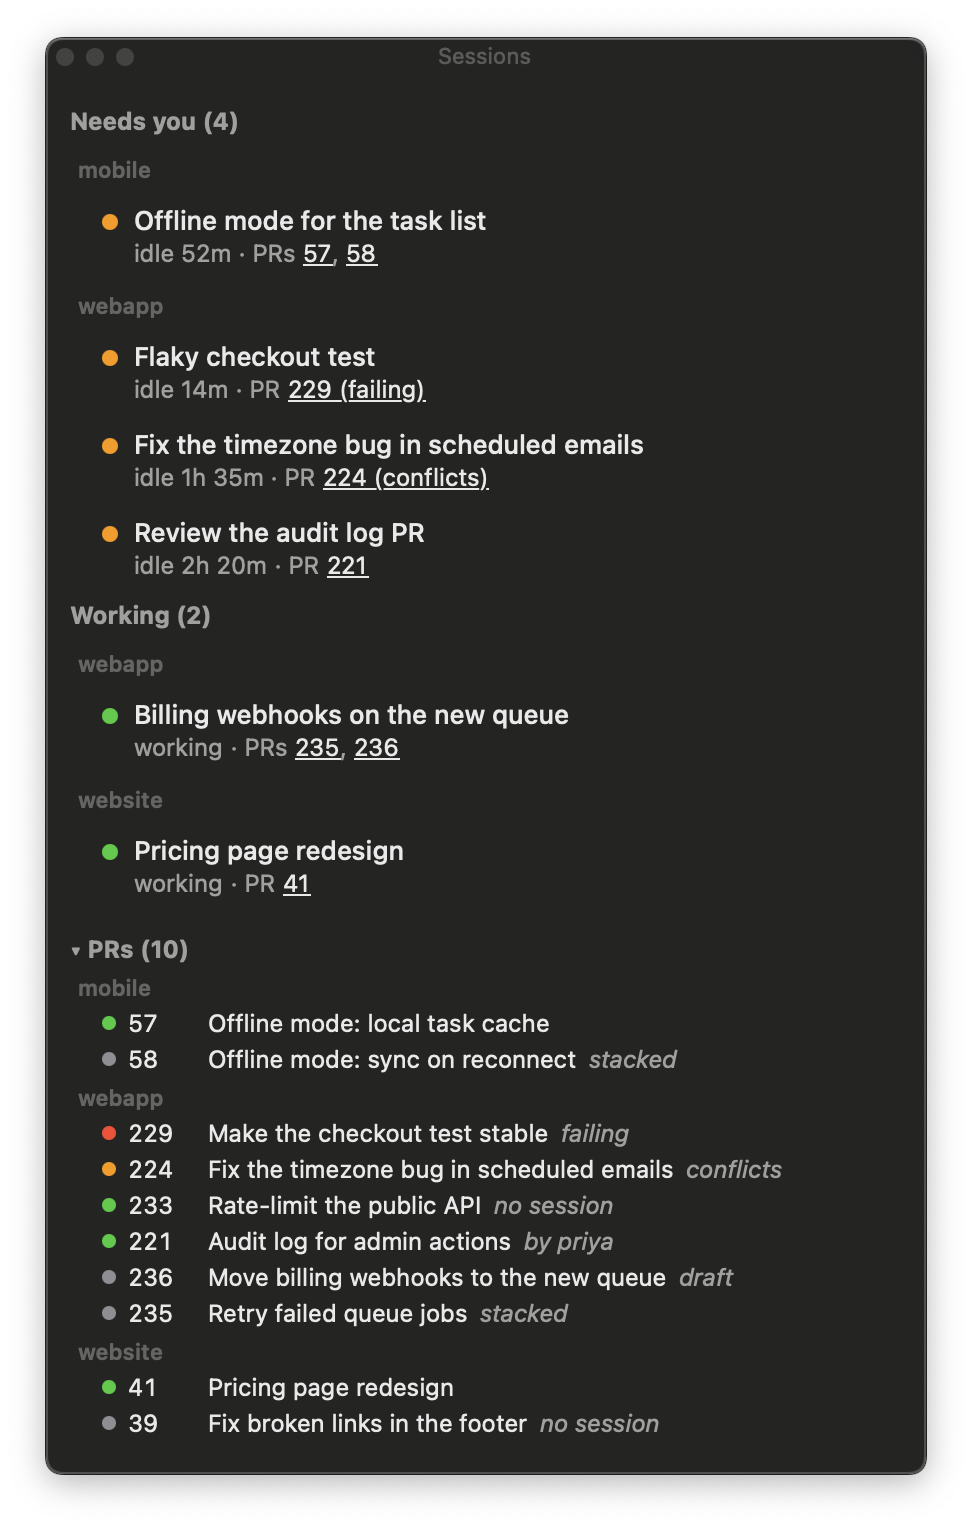
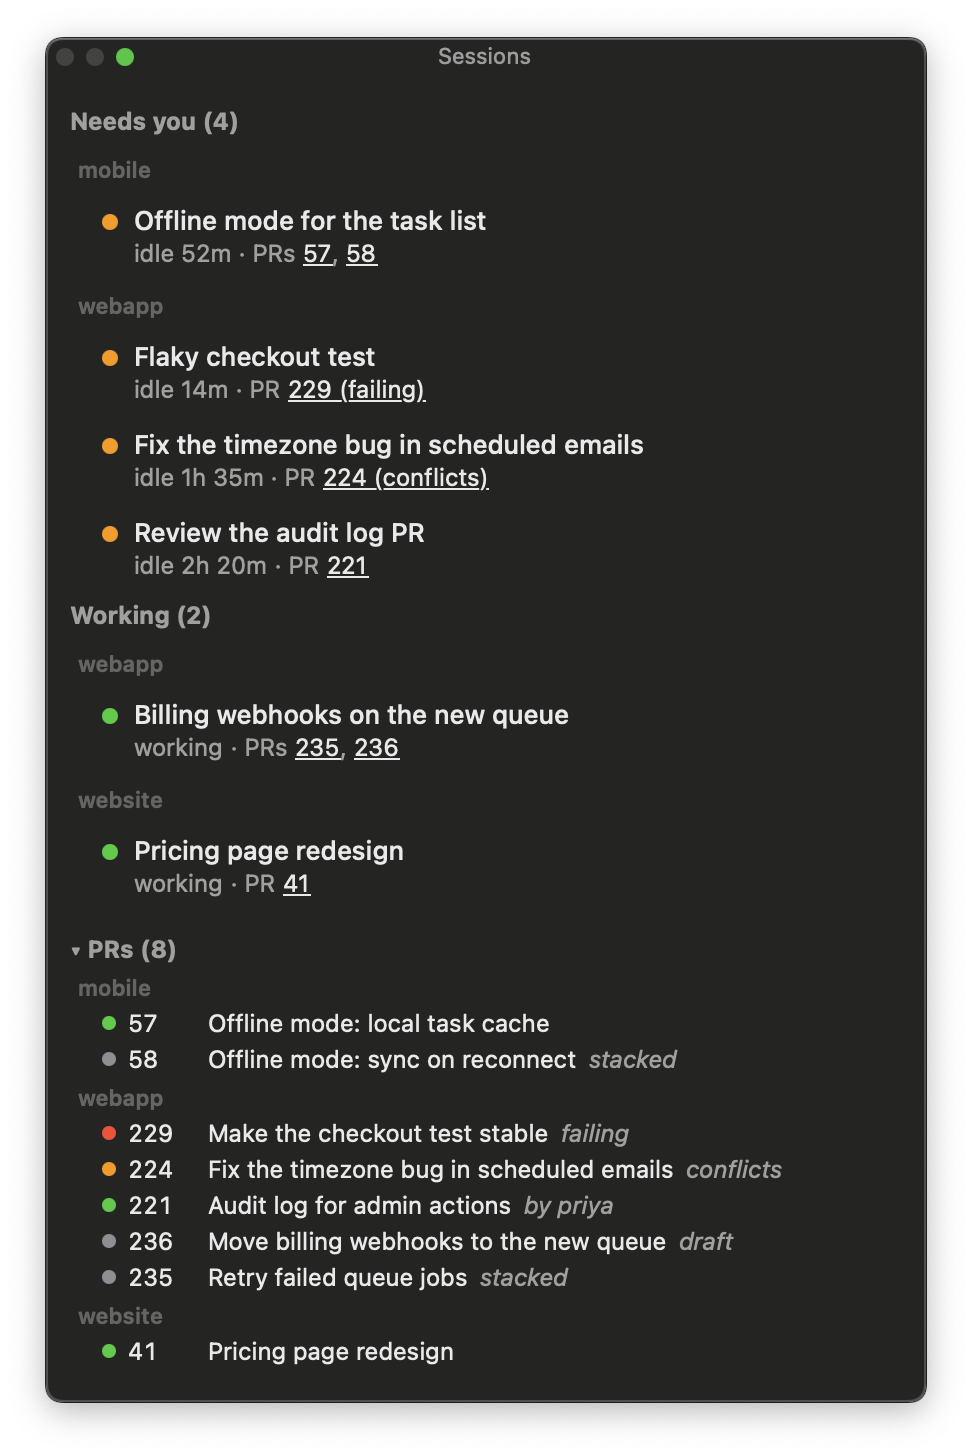
List only PRs from sessions fresher than a week, the same rule as the session list
A PR no session works on, or whose sessions have been idle for over a week,
is no longer listed, and only repos of such sessions are asked about. The
"no session" note is gone, and the PR screenshot is redone.

Changed region(s): [[0.0617, 0.0, 0.9568, 0.989]]

diff --git a/blackroija.swift b/blackroija.swift
@@ -1004,12 +1004,13 @@ struct Row: View {
     }
 }
 
-/// The repos to list PRs for: the GitHub repo of every session's folder, plus
-/// every repo a session has an open PR on. Each repo once, whatever its
+/// The repos to list PRs for: the GitHub repo of every fresh session, plus
+/// every repo such a session has an open PR on. Each repo once, whatever its
 /// capitalization.
-func prRepoList(_ sessions: [Session]) -> Set<String> {
+func prRepoList(_ sessions: [Session], now: Date = Date()) -> Set<String> {
+    let fresh = sessions.filter { isFresh($0, now: now) }
     var byKey: [String: String] = [:]
-    for repo in sessions.compactMap(\.repo) + sessions.flatMap({ $0.prs.filter(\.isOpen).map(\.repo) }) {
+    for repo in fresh.compactMap(\.repo) + fresh.flatMap({ $0.prs.filter(\.isOpen).map(\.repo) }) {
         if byKey[repo.lowercased()] == nil { byKey[repo.lowercased()] = repo }
     }
     return Set(byKey.values)
@@ -1165,27 +1166,30 @@ struct MergeQueue {
     var ready: [OpenPR] = []
     var failing: [OpenPR] = []
     var conflicts: [OpenPR] = []
-    var noSession: [OpenPR] = []
-    // The PRs shown: yours, plus teammates' ones an open session works on.
+    // The PRs shown: the open ones that a session from the last week works on.
     var shown: [OpenPR] = []
 
-    init(_ open: [OpenPR], sessions: [Session]) {
-        let tracked = Set(sessions.flatMap { $0.prs.map { "\($0.repo.lowercased())#\($0.number)" } })
-        shown = open.filter { $0.mine || !$0.keys.isDisjoint(with: tracked) }.sorted { $0.number > $1.number }
+    init(_ open: [OpenPR], sessions: [Session], now: Date = Date()) {
+        let tracked = Set(sessions.filter { isFresh($0, now: now) }
+            .flatMap { $0.prs.map { "\($0.repo.lowercased())#\($0.number)" } })
+        shown = open.filter { !$0.keys.isDisjoint(with: tracked) }.sorted { $0.number > $1.number }
         ready = shown.filter(\.isReady)
         failing = shown.filter { !$0.isDraft && $0.isFailing }
         conflicts = shown.filter(\.hasConflicts)
-        noSession = shown.filter { $0.keys.isDisjoint(with: tracked) }
     }
 
     var isEmpty: Bool { shown.isEmpty }
 }
 
+/// A session still worth showing: working, or active within the last week.
+/// The session list and the PR list both follow this rule.
+func isFresh(_ session: Session, now: Date) -> Bool {
+    session.activity == .working || now.timeIntervalSince(session.lastActivity) < staleAfter
+}
+
 /// Splits sessions the way the window shows them.
 func arrange(_ sessions: [Session], now: Date, problems: [String: String] = [:]) -> (stuck: [(session: Session, reason: String)], answer: [Session], needsYou: [Session], working: [Session], quiet: [Session], stale: Int) {
-    let all = sessions.filter {
-        $0.activity == .working || now.timeIntervalSince($0.lastActivity) < staleAfter
-    }
+    let all = sessions.filter { isFresh($0, now: now) }
     // Stuck sessions get their own section on top; the rest split as before.
     // Every list is newest first: the session that replied most recently
     // comes first.
@@ -1240,7 +1244,7 @@ struct ContentView: View {
                         .font(.system(size: 12)).foregroundStyle(.tertiary)
                 }
                 if let open = store.openPRs {
-                    mergeStrip(MergeQueue(open, sessions: store.sessions))
+                    mergeStrip(MergeQueue(open, sessions: store.sessions, now: now))
                         .padding(.top, 8)
                 }
                 if let prError = store.prError {
@@ -1263,7 +1267,6 @@ struct ContentView: View {
         if !queue.isEmpty {
             // One PR per line: problems first, then passing, then the rest.
             let failing = Set(queue.failing), conflicts = Set(queue.conflicts), ready = Set(queue.ready)
-            let noSession = Set(queue.noSession)
             let rank: (OpenPR) -> Int = { failing.contains($0) ? 0 : conflicts.contains($0) ? 1 : ready.contains($0) ? 2 : 3 }
             let prs = queue.shown.sorted { rank($0) != rank($1) ? rank($0) < rank($1) : $0.number > $1.number }
             let labels = Set(prs.map { repoLabel($0.repo) })
@@ -1284,7 +1287,6 @@ struct ContentView: View {
                                          conflicts.contains(pr) ? "conflicts" : nil,
                                          pr.isDraft ? "draft" : nil,
                                          pr.isStacked ? "stacked" : nil,
-                                         noSession.contains(pr) ? "no session" : nil,
                                          pr.mine ? nil : pr.author.map { "by \($0.login)" }].compactMap { $0 }
                             prRow(pr, color: failing.contains(pr) ? .red : conflicts.contains(pr) ? .orange
                                       : ready.contains(pr) ? .green : .gray,
@@ -1407,7 +1409,7 @@ enum BlackRoijaApp {
             let now = Date()
             let store = Store(gradeInBackground: false)
             let all = (try? store.scan()) ?? []
-            let open = try? Store.loadOpenPRs(prRepoList(all))
+            let open = try? Store.loadOpenPRs(prRepoList(all, now: now))
             let problems = prProblems(open)
             let groups = arrange(all, now: now, problems: problems)
             print("== STUCK")
@@ -1425,9 +1427,9 @@ enum BlackRoijaApp {
             }
             print("\(groups.stale) more idle for over a week")
             if let open {
-                let queue = MergeQueue(open, sessions: all)
+                let queue = MergeQueue(open, sessions: all, now: now)
                 for (name, list) in [("PRS SHOWN", queue.shown), ("CHECKS PASSING", queue.ready), ("CHECKS FAILING", queue.failing),
-                                     ("CONFLICTS", queue.conflicts), ("NO SESSION", queue.noSession)] {
+                                     ("CONFLICTS", queue.conflicts)] {
                     print("== \(name): " + list.map { "\($0.repo.split(separator: "/").last ?? "")#\($0.number)" }.joined(separator: ", "))
                 }
             }

diff --git a/AGENTS.md b/AGENTS.md
@@ -22,7 +22,7 @@ A floating macOS window, written in Swift, that lists your Claude Code sessions 
 - Read-only: never write to the desktop app's session files or conversation logs, and only read from GitHub through `gh`. The window's own cache is `~/Library/Application Support/blackroija/`.
 - The window is for focus, so keep it quiet. No labels or tags, no red or bold text for messages, no long text in rows, and no macOS notifications. Color goes on the dots and the PR status only. Before adding anything visible, ask whether it'll be read every time; if not, leave it out.
 - "Finished" means archived. An idle, unarchived session always waits on the user, even when it says it's done.
-- The PR list shows only the user's own PRs, plus teammates' PRs that an open session works on.
+- The PR list shows only open PRs that a session works on, and only sessions that are working or active within the last week (`isFresh`, the same rule as the session list). No PR without a session.
 - The repo is public, so nothing private goes in it. README screenshots and examples use made-up sessions and PRs, never real session titles, repo names or PR numbers. Make them from a scratch copy of the app pointed at a fake `home` (see the testing bullet above).
 - Each requested change goes in its own commit. Push only when asked, to `master` with `git push origin HEAD:refs/heads/master`. The repo (`Hypefury/blackroija`) has no PR flow.
 - The desktop app's files and `claude://` links aren't a public API. When something stops showing up, read the real files before changing the parsing.

diff --git a/README.md b/README.md
@@ -37,7 +37,7 @@ Sessions are sorted into sections, and grouped by repo (named after its folder) 
 
 Click a row to open the session, or click a PR number to open it on GitHub.
 
-At the bottom, **PRs** lists your own open PRs, plus teammates' PRs that an open session works on. Click "PRs" to fold the list.
+At the bottom, **PRs** lists the open PRs that your sessions work on, under the same one-week rule as the session list. Click "PRs" to fold the list.
 
 <img src="docs/prs.png" alt="The PR list, grouped by repo, with a colored dot and a note for each PR" width="486">
 
@@ -77,7 +77,7 @@ cd ~/workspace/blackroija && ./build.sh && pkill -x blackroija; sleep 1; open "b
 
 The window shows sessions from every folder, grouped by the folder name of their repo, in name order. It finds the repo by its git folder, so worktrees count too.
 
-The PR list covers the GitHub repo of every open session, with nothing to set up. The repo comes from the `origin` address in the folder's git settings (read-only), so a session counts before it has opened a PR, and repos that aren't on GitHub are skipped. Any other repo a session has an open PR on is covered too. Your GitHub login decides which PRs are "yours".
+The PR list shows the open PRs that the sessions in the list work on: sessions that are working, or were active within the last week. When a session goes quiet for over a week, its PRs drop out with it, and a PR no session works on isn't listed. Nothing to set up. A PR opened by someone else is marked with their GitHub name.
 
 ## Checking it from the terminal
 
